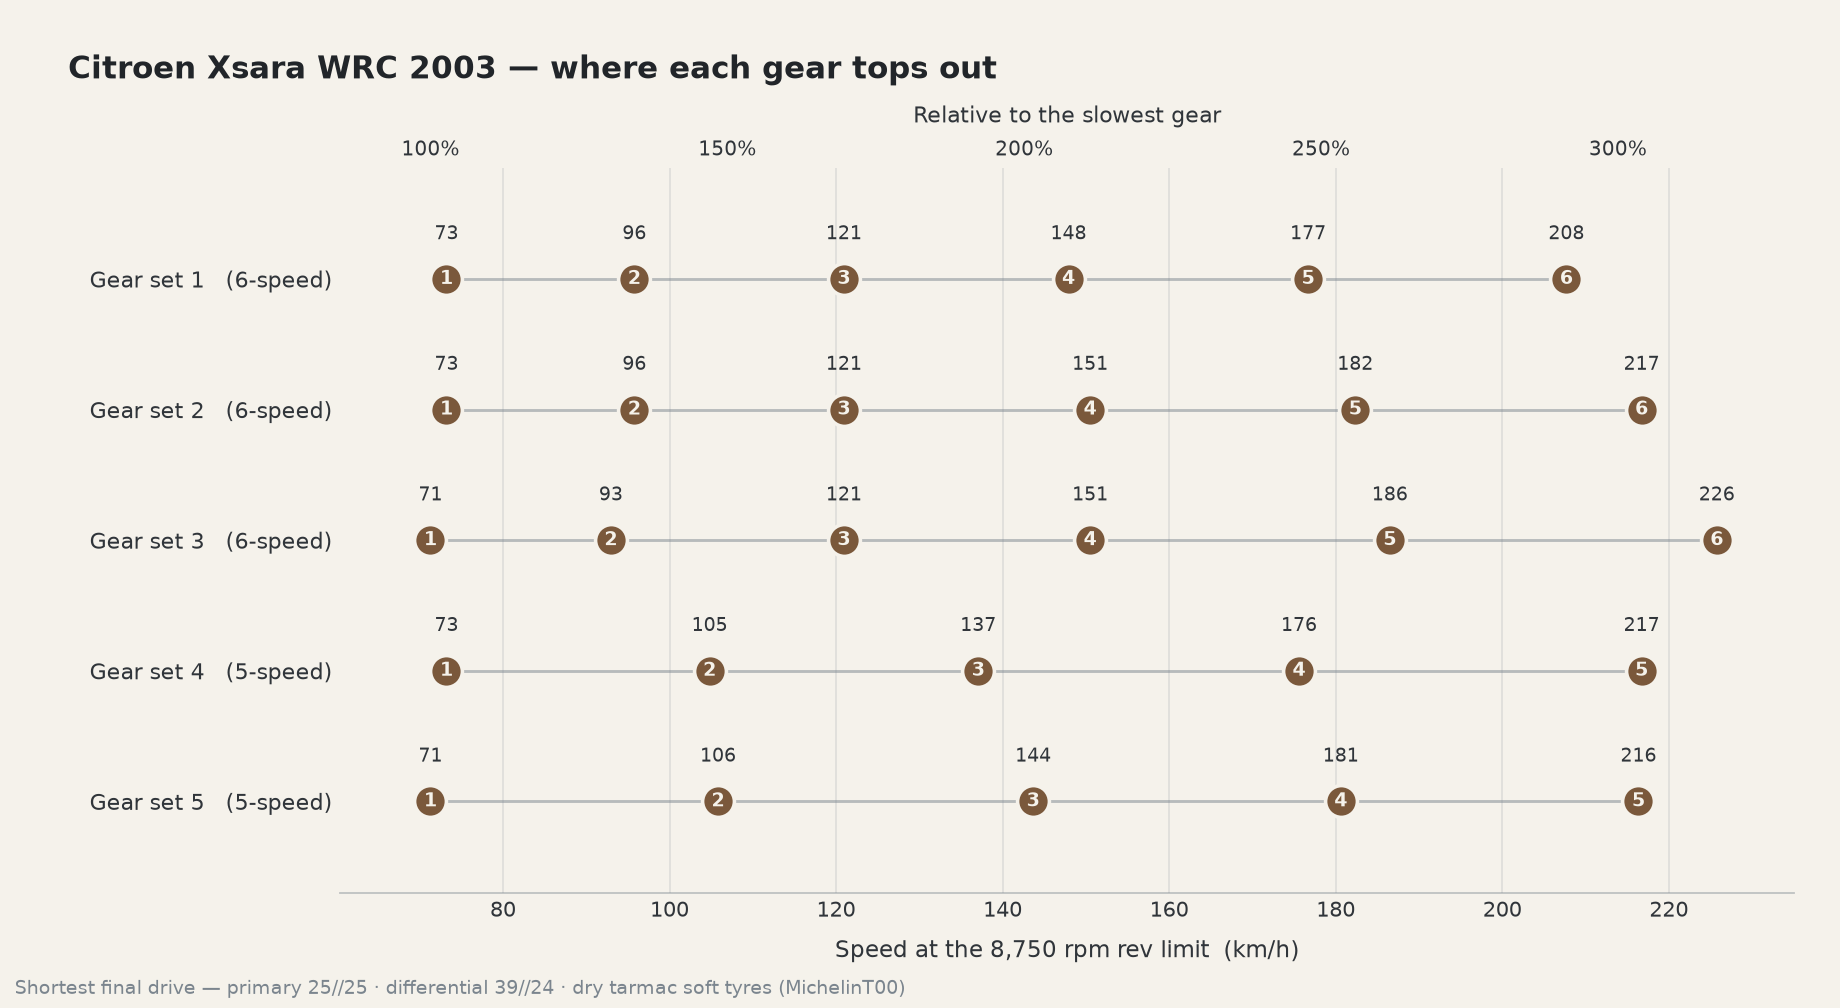
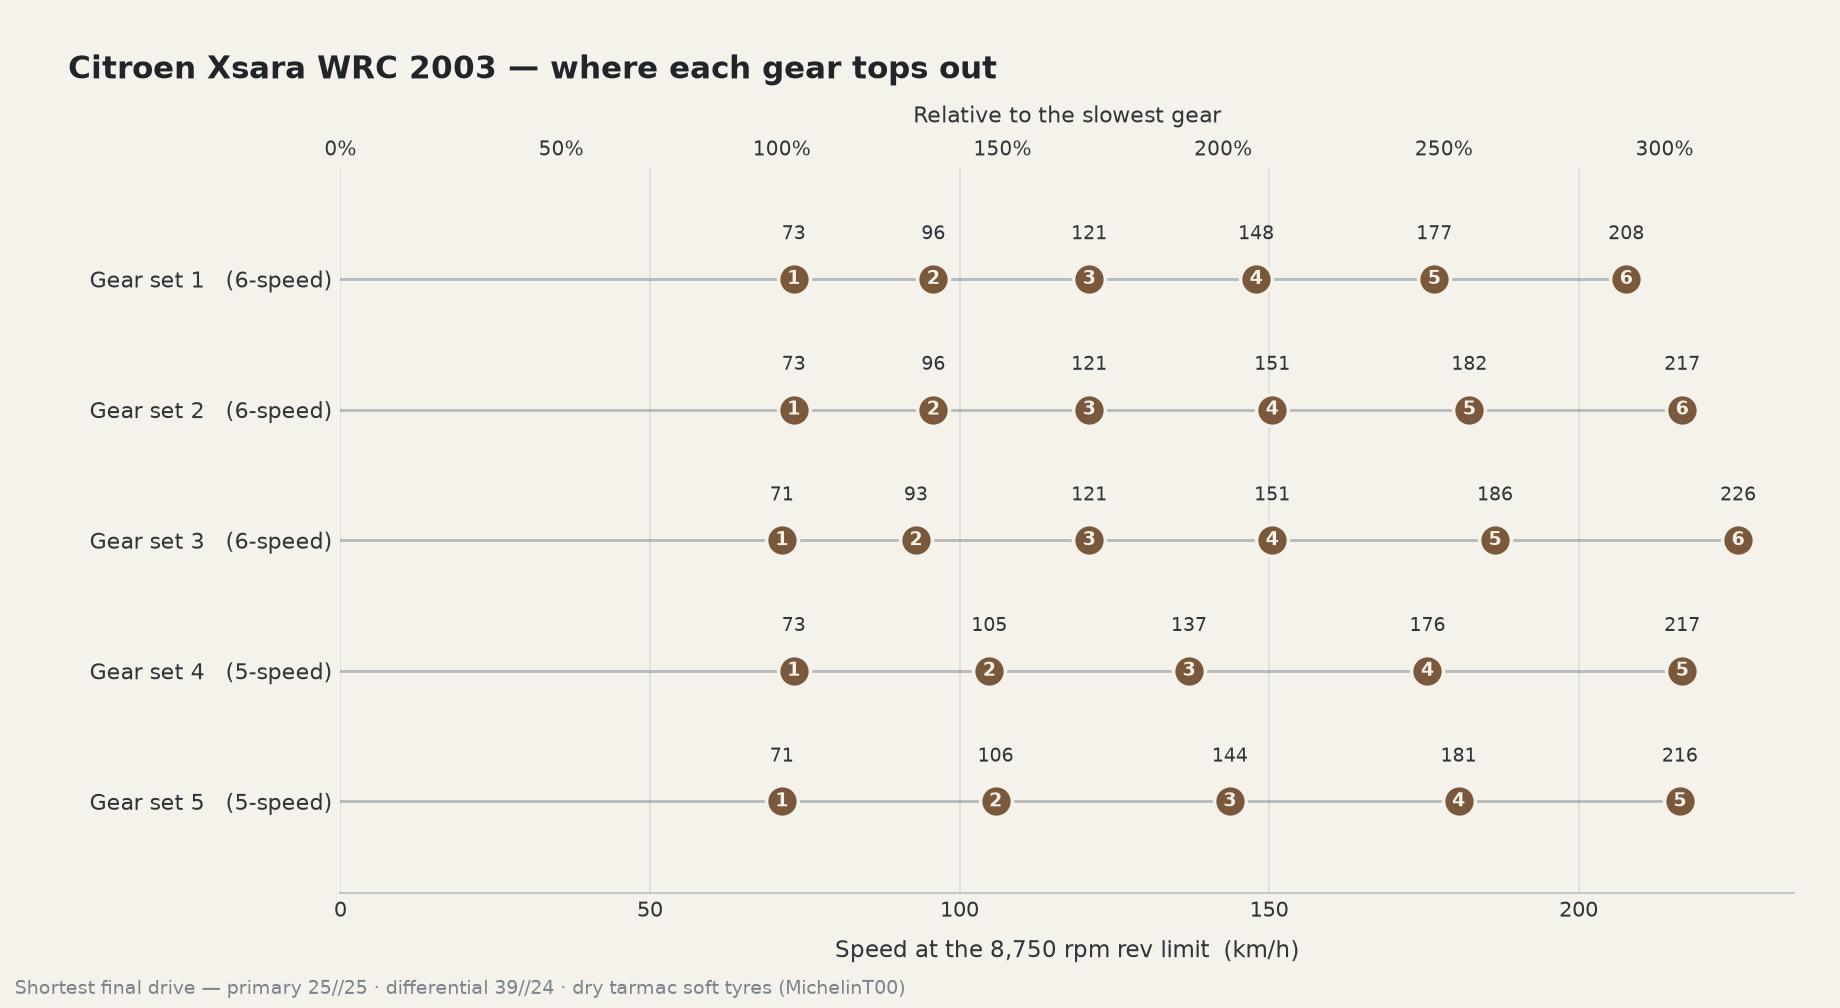
better charts

diff --git a/tools/gearing-charts/make_gearing_chart.py b/tools/gearing-charts/make_gearing_chart.py
@@ -371,7 +371,10 @@ def chart_gear_ladder(sets, cal, redline, title, out_path):
 
     ys = list(range(len(sets)))[::-1]
     for y, row in zip(ys, tops):
-        ax.plot(row, [y] * len(row), color=STEEL, lw=1.3, alpha=0.5, zorder=1)
+        # the line runs from a standing start, so first gear reads as a span like
+        # every other gear rather than as a bare dot floating in space
+        ax.plot([0] + row, [y] * (len(row) + 1), color=STEEL, lw=1.3, alpha=0.5,
+                zorder=1)
         ax.scatter(row, [y] * len(row), s=205, color=WALNUT, zorder=3,
                    edgecolor=WARM_WHITE, linewidth=1.6)
         for i, x in enumerate(row):
@@ -384,8 +387,8 @@ def chart_gear_ladder(sets, cal, redline, title, out_path):
     ax.set_yticklabels([f'Gear set {i + 1}   ({len(s[0])}-speed)'
                         for i, s in enumerate(sets)], fontsize=10)
     ax.set_ylim(-0.7, len(sets) - 0.15)
-    span = max(max(t) for t in tops) - base
-    ax.set_xlim(base - span * 0.07, max(max(t) for t in tops) + span * 0.06)
+    top_speed = max(max(t) for t in tops)
+    ax.set_xlim(0, top_speed * 1.04)
     ax.xaxis.set_major_formatter(FuncFormatter(lambda v, _: f'{int(v)}'))
     ax.set_xlabel(f'Speed at the {redline:,} rpm rev limit  (km/h)',
                   color=GRAPHITE, fontsize=10.5, labelpad=8)
@@ -475,6 +478,9 @@ def main():
     ap = argparse.ArgumentParser()
     ap.add_argument('--paks', default=DEFAULT_PAKS)
     ap.add_argument('--car', default='lancia-stratos')
+    ap.add_argument('--all', action='store_true', help='every car in CARS')
+    ap.add_argument('--charts', default='both',
+                    choices=('both', 'gearing', 'final-drive'))
     ap.add_argument('--out', default=os.path.join(REPO, 'car-charts'))
     ap.add_argument('--style', default='ladder', choices=('auto', 'lines', 'ladder'),
                     help='ladder is the default; lines is only readable for a few sets')
@@ -482,6 +488,22 @@ def main():
                     help='Tarmac_Dry, Tarmac_Wet, Gravel, Sweden, Montecarlo')
     args = ap.parse_args()
 
+    if args.all:
+        failed = []
+        for slug in sorted(CARS):
+            args.car = slug
+            try:
+                render_car(args)
+            except SystemExit as e:          # one unreadable car must not stop the batch
+                failed.append(f'{slug}: {e}')
+        for f in failed:
+            print(f'  !! {f}')
+        print(f'{len(CARS) - len(failed)}/{len(CARS)} cars rendered')
+        return
+    render_car(args)
+
+
+def render_car(args):
     asset, wheel_key, car_asset = CARS[args.car]
     import re as _re
     txt = open(os.path.join(TEMPLATES, args.car + '.yaml'), encoding='utf-8').read()
@@ -522,13 +544,14 @@ def main():
 
     a = os.path.join(args.out, f'{args.car}-gearing.png')
     b = os.path.join(args.out, f'{args.car}-final-drive.png')
-    if args.style == 'ladder' or (args.style == 'auto'
-                                  and sum(len(g) for g, _, _ in sets) > 18):
-        chart_gear_ladder(sets, cal, redline, display, a)
-    else:
-        chart_speed_vs_revs(sets, cal, t_rpm, p_rpm, redline, display, a)
-    print(f'wrote {a}')
-    if len(primaries) * len(options) > 1:
+    if args.charts in ('both', 'gearing'):
+        if args.style == 'ladder' or (args.style == 'auto'
+                                      and sum(len(g) for g, _, _ in sets) > 18):
+            chart_gear_ladder(sets, cal, redline, display, a)
+        else:
+            chart_speed_vs_revs(sets, cal, t_rpm, p_rpm, redline, display, a)
+        print(f'wrote {a}')
+    if args.charts in ('both', 'final-drive') and len(primaries) * len(options) > 1:
         chart_final_drive(sets, cal, primaries, options, stock_option, ratio_name,
                           redline, display, b)
         print(f'wrote {b}   (varying {ratio_name})')
